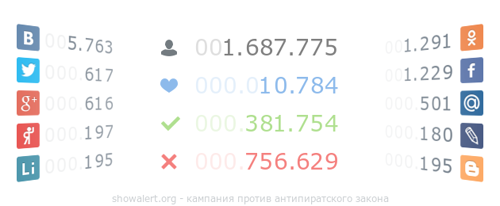
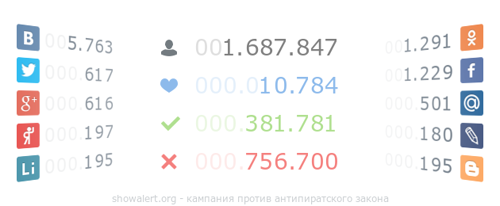
update statistics files for plugins

Changed region(s): [[0.57, 0.1748, 0.69, 0.2913], [0.57, 0.7282, 0.69, 0.8447], [0.6, 0.5534, 0.69, 0.6408]]

diff --git a/votes.js b/votes.js
@@ -1,1 +1,1 @@
-window.lk.votes(33324)
+window.lk.votes(33331)
